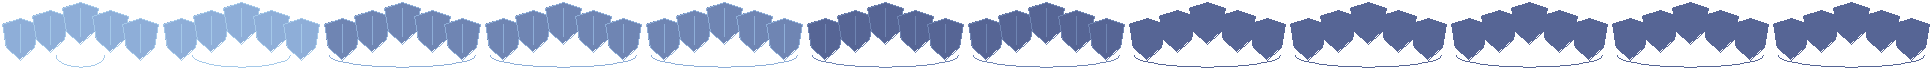
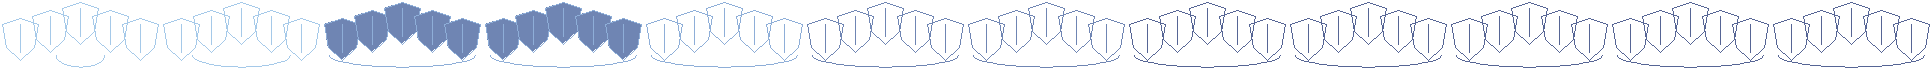
fix(tactics): keep units visible through Fighter shield effects
Limit solid shield fills to the two impact frames and retain open outlines during the linger. Add a victim-body coverage regression; native Goading Attack exposed the obstruction.

Session: combat-vfx-247

[skip ci]

diff --git a/tools/tactics-assets/parts/fighter_fx.py b/tools/tactics-assets/parts/fighter_fx.py
@@ -34,7 +34,9 @@ def frames(name):
   def arc(x,y,rx,ry,start,end,slot='main',s=None):path([(x+math.cos(a)*rx,y+math.sin(a)*ry) for a in [start+(end-start)*j/18 for j in range(19)]],slot,s)
   def shield(x,y,size=17):
    p=[(x-size,y-size),(x,y-size*1.3),(x+size,y-size),(x+size*.8,y+size*.3),(x,y+size),(x-size*.8,y+size*.3)]
-   c.polygon(p,'main',max(1,shade-1));path(p,'core',min(4,shade),True);line((x,y-size),(x,y+size*.6),'accent',min(4,shade))
+   # Solid impact lasts only two frames; the lingering outline leaves the unit readable.
+   if i in (2,3):c.polygon(p,'main',max(1,shade-1))
+   path(p,'core',min(4,shade),True);line((x,y-size),(x,y+size*.6),'accent',min(4,shade))
   def blade(x,y,length=38,angle=-1.1):
    dx=math.cos(angle);dy=math.sin(angle);nx=-dy;ny=dx
    p=[(x-nx*3,y-ny*3),(x+dx*length,y+dy*length),(x+nx*3,y+ny*3)]

diff --git a/tools/tactics-assets/test_fighter_fx.py b/tools/tactics-assets/test_fighter_fx.py
@@ -63,3 +63,10 @@ class FighterFxTests(unittest.TestCase):
             self.assertIn(p['anim'].split('.')[-1],CASTS)
             self.assertNotIn(p['fx'],effects);effects.add(p['fx'])
         self.assertEqual(20,len(effects))
+
+    def test_shield_linger_keeps_the_victims_body_readable(self):
+        # After its brief impact, the central body rectangle must remain mostly open.
+        for frame in frames('goading_attack')[4:]:
+            cx=frame.w//2;cy=round(frame.h*.72)
+            body=frame.slot[cy-36:cy-10,cx-10:cx+10]
+            self.assertLess(np.count_nonzero(body)/body.size,.2)

diff --git a/docs/superpowers/plans/2026-11-06-combat-vfx.progress.md b/docs/superpowers/plans/2026-11-06-combat-vfx.progress.md
@@ -213,3 +213,6 @@ The full gate passes: 7,317 .NET (zero skipped), 565 phone/build, 24 Node, 56 as
 The owner approved Ranger with “Hunter looks good, next class”. Its #247 checkbox is ticked and PR #268 is open against `combat-vfx-bard`. The subsequent environment outage lost the unpushed Fighter checkout and captures. Fighter has been restored from the recorded changes on latest main `b0cc434e` plus approved Ranger dependency `733e36d343735a959a466c0754369e04fc3729ab`; frozen baseline `4d37f2eab86b19a638c57349745678255325dfe7`. Earlier successful counts are historical; verification is rerun on the restored source. Main includes #270's squirrel art-audit fix.
 
 Fighter covers 20 abilities, seven actual hooks, ordinary Attack and seven level-10/wounded variants: 35 native scenes, with five static features in the 32-row inventory. Twenty-eight deterministic sheets and six four-frame gestures plus a held release append 25 frames on eleven race atlases. Actual misses, failed saves, lethal hits, resource restoration, multiattacks and conditional damage drive the fixtures. Charge strikes after its real rush; Cleave's Keen Edge marks its actual victim. Physical effects remain unlit; incoming Fireball retains fire light. All gameplay fields and 4,158 original frames are preserved. Five Warlord Bridge events change presentation only. Fighter's PR and Barbarian wait for explicit Fighter approval. CI stays off.
+
+
+The final native visual check found that Goading Attack’s solid shield hid the victim during its lingering frames. All nine shield-bearing sheets now restrict the solid impact to two frames (0.1 s) and retain an open outline afterward. A central-body coverage regression passes. Eleven affected native cases are refreshed; the 24 unaffected revised cases and all baseline captures/measurements are retained. The full gate and all three revised measurements are rerun on the final art.

diff --git a/docs/superpowers/reports/combat-vfx/fighter/review.md b/docs/superpowers/reports/combat-vfx/fighter/review.md
@@ -6,7 +6,7 @@ The 35 real-engine comparisons cover all 20 abilities, seven visible hooks, ordi
 
 Indomitable follows a real failed Fireball save and removes existing poison/fear. Unbreakable follows an actual lethal hit while an ally keeps the party in battle. Studied Attacks follows a miss, Relentless restores an expended superiority die, and Inspiring Presence grants real temporary HP. Wounded Execution Strike exercises its conditional extra damage. Multiattacks keep every real attack and separate miss/damage rows. Vanguard Charge braces, follows its actual dash, then strikes on arrival. Keen Edge lands on the struck enemy, including self-centered Cleave.
 
-Physical Fighter effects emit no magical light. The incoming Wizard Fireball retains its fire light. Existing sound mappings remain; previously unmapped physical art reuses existing sword, shield and battle clips. No paid generation or new audio is used.
+Shield effects use a two-frame solid impact (0.1 s), followed by an open outline so the victim and health bar stay readable during the linger. Physical Fighter effects emit no magical light. The incoming Wizard Fireball retains its fire light. Existing sound mappings remain; previously unmapped physical art reuses existing sword, shield and battle clips. No paid generation or new audio is used.
 
 ## Recovery and baseline
 
